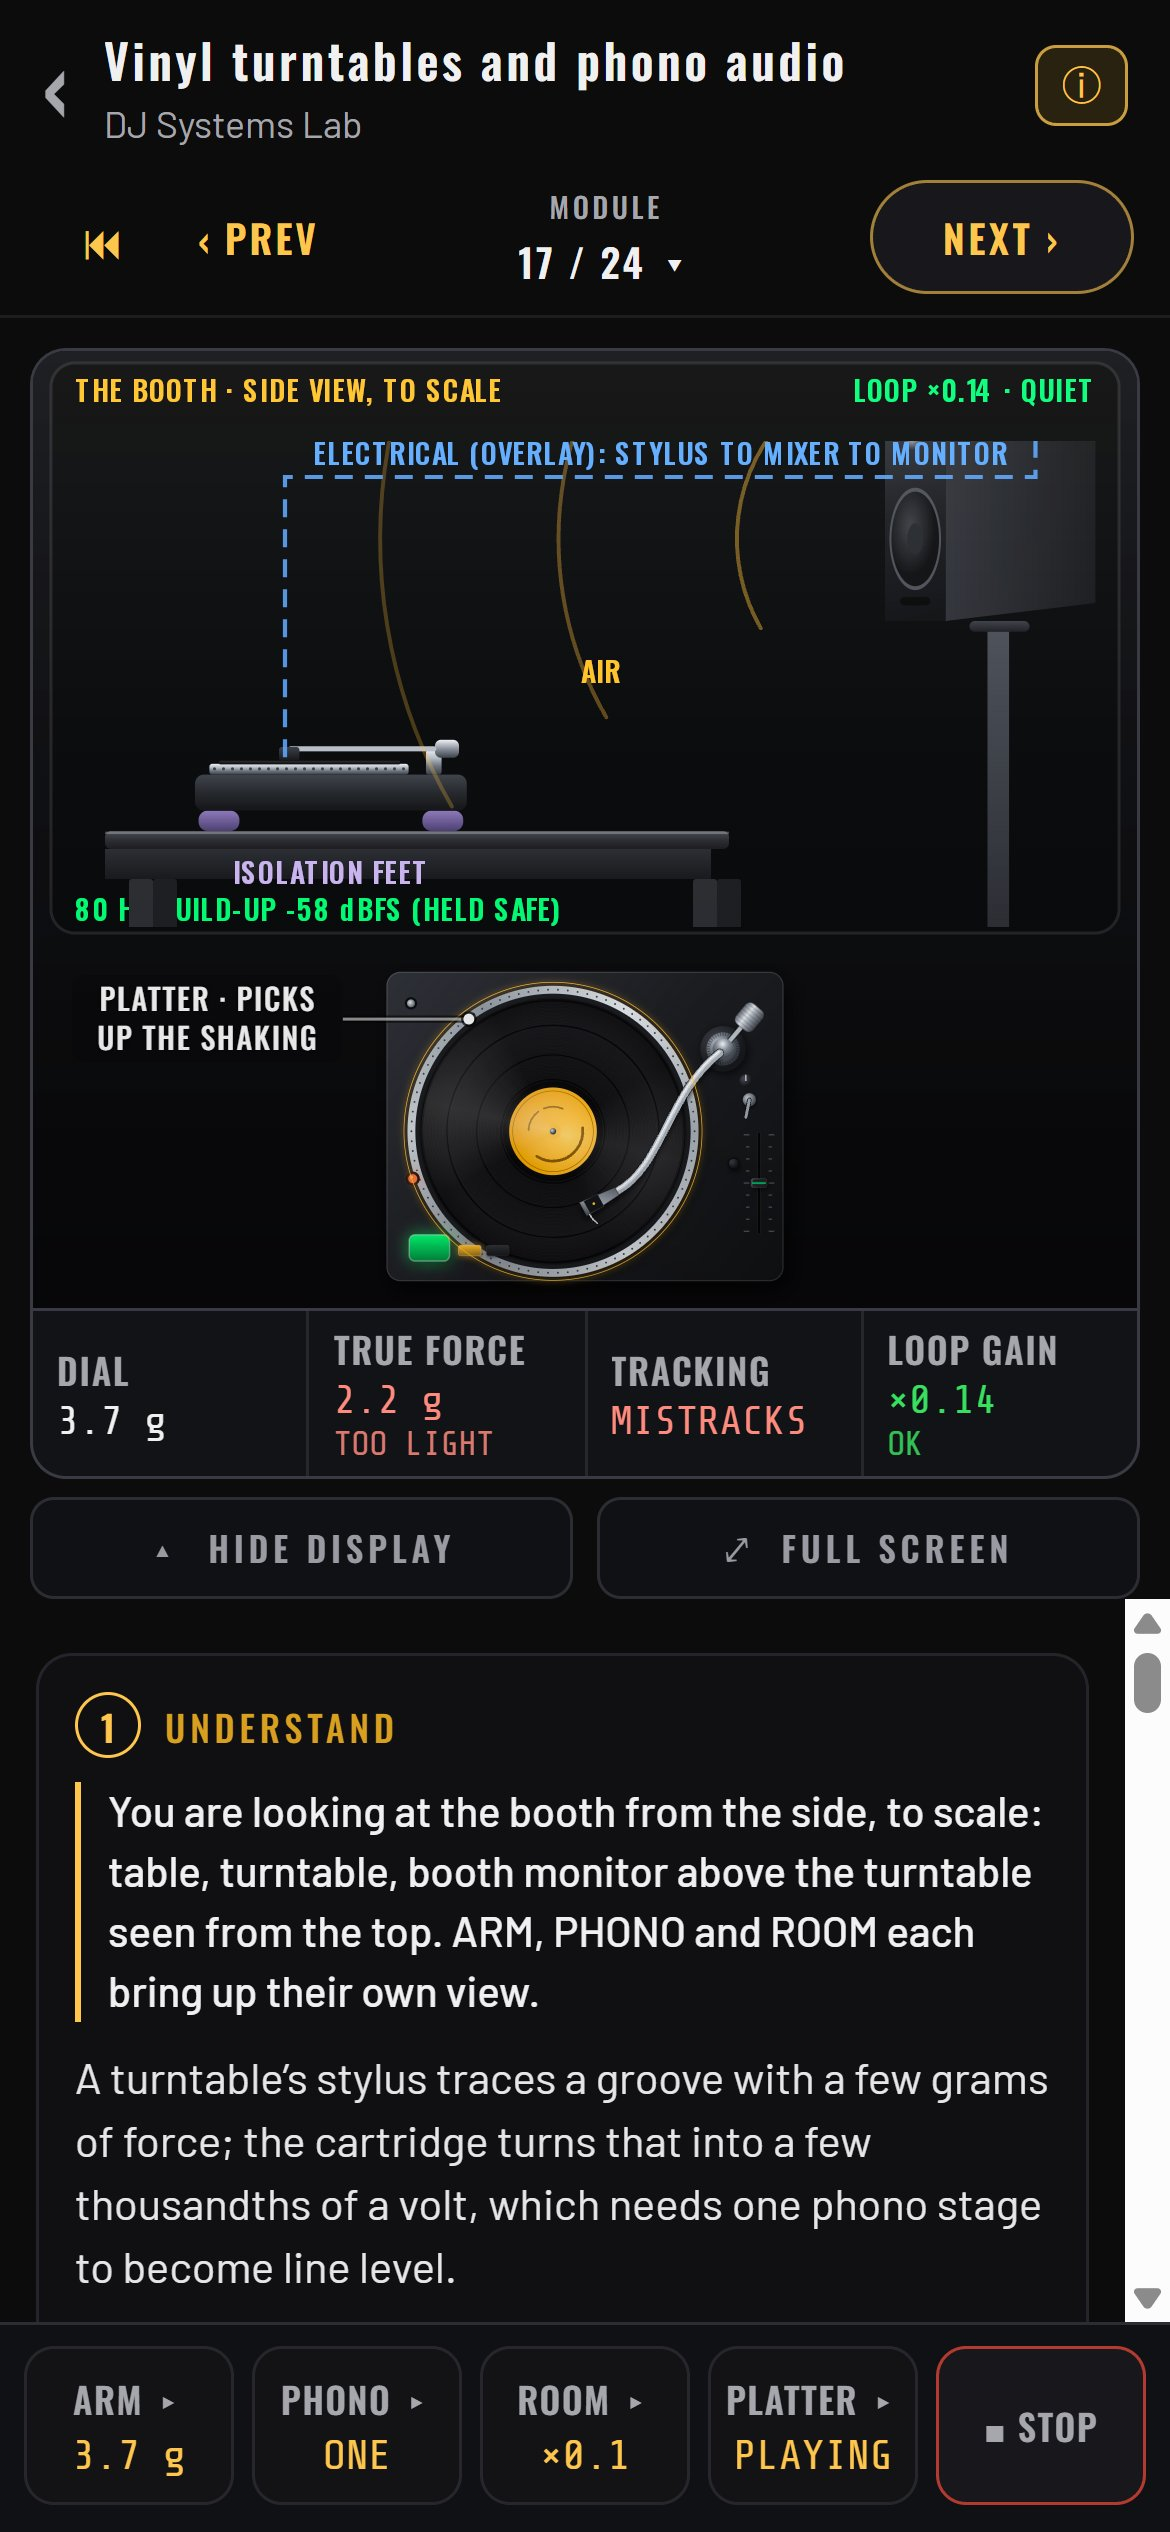
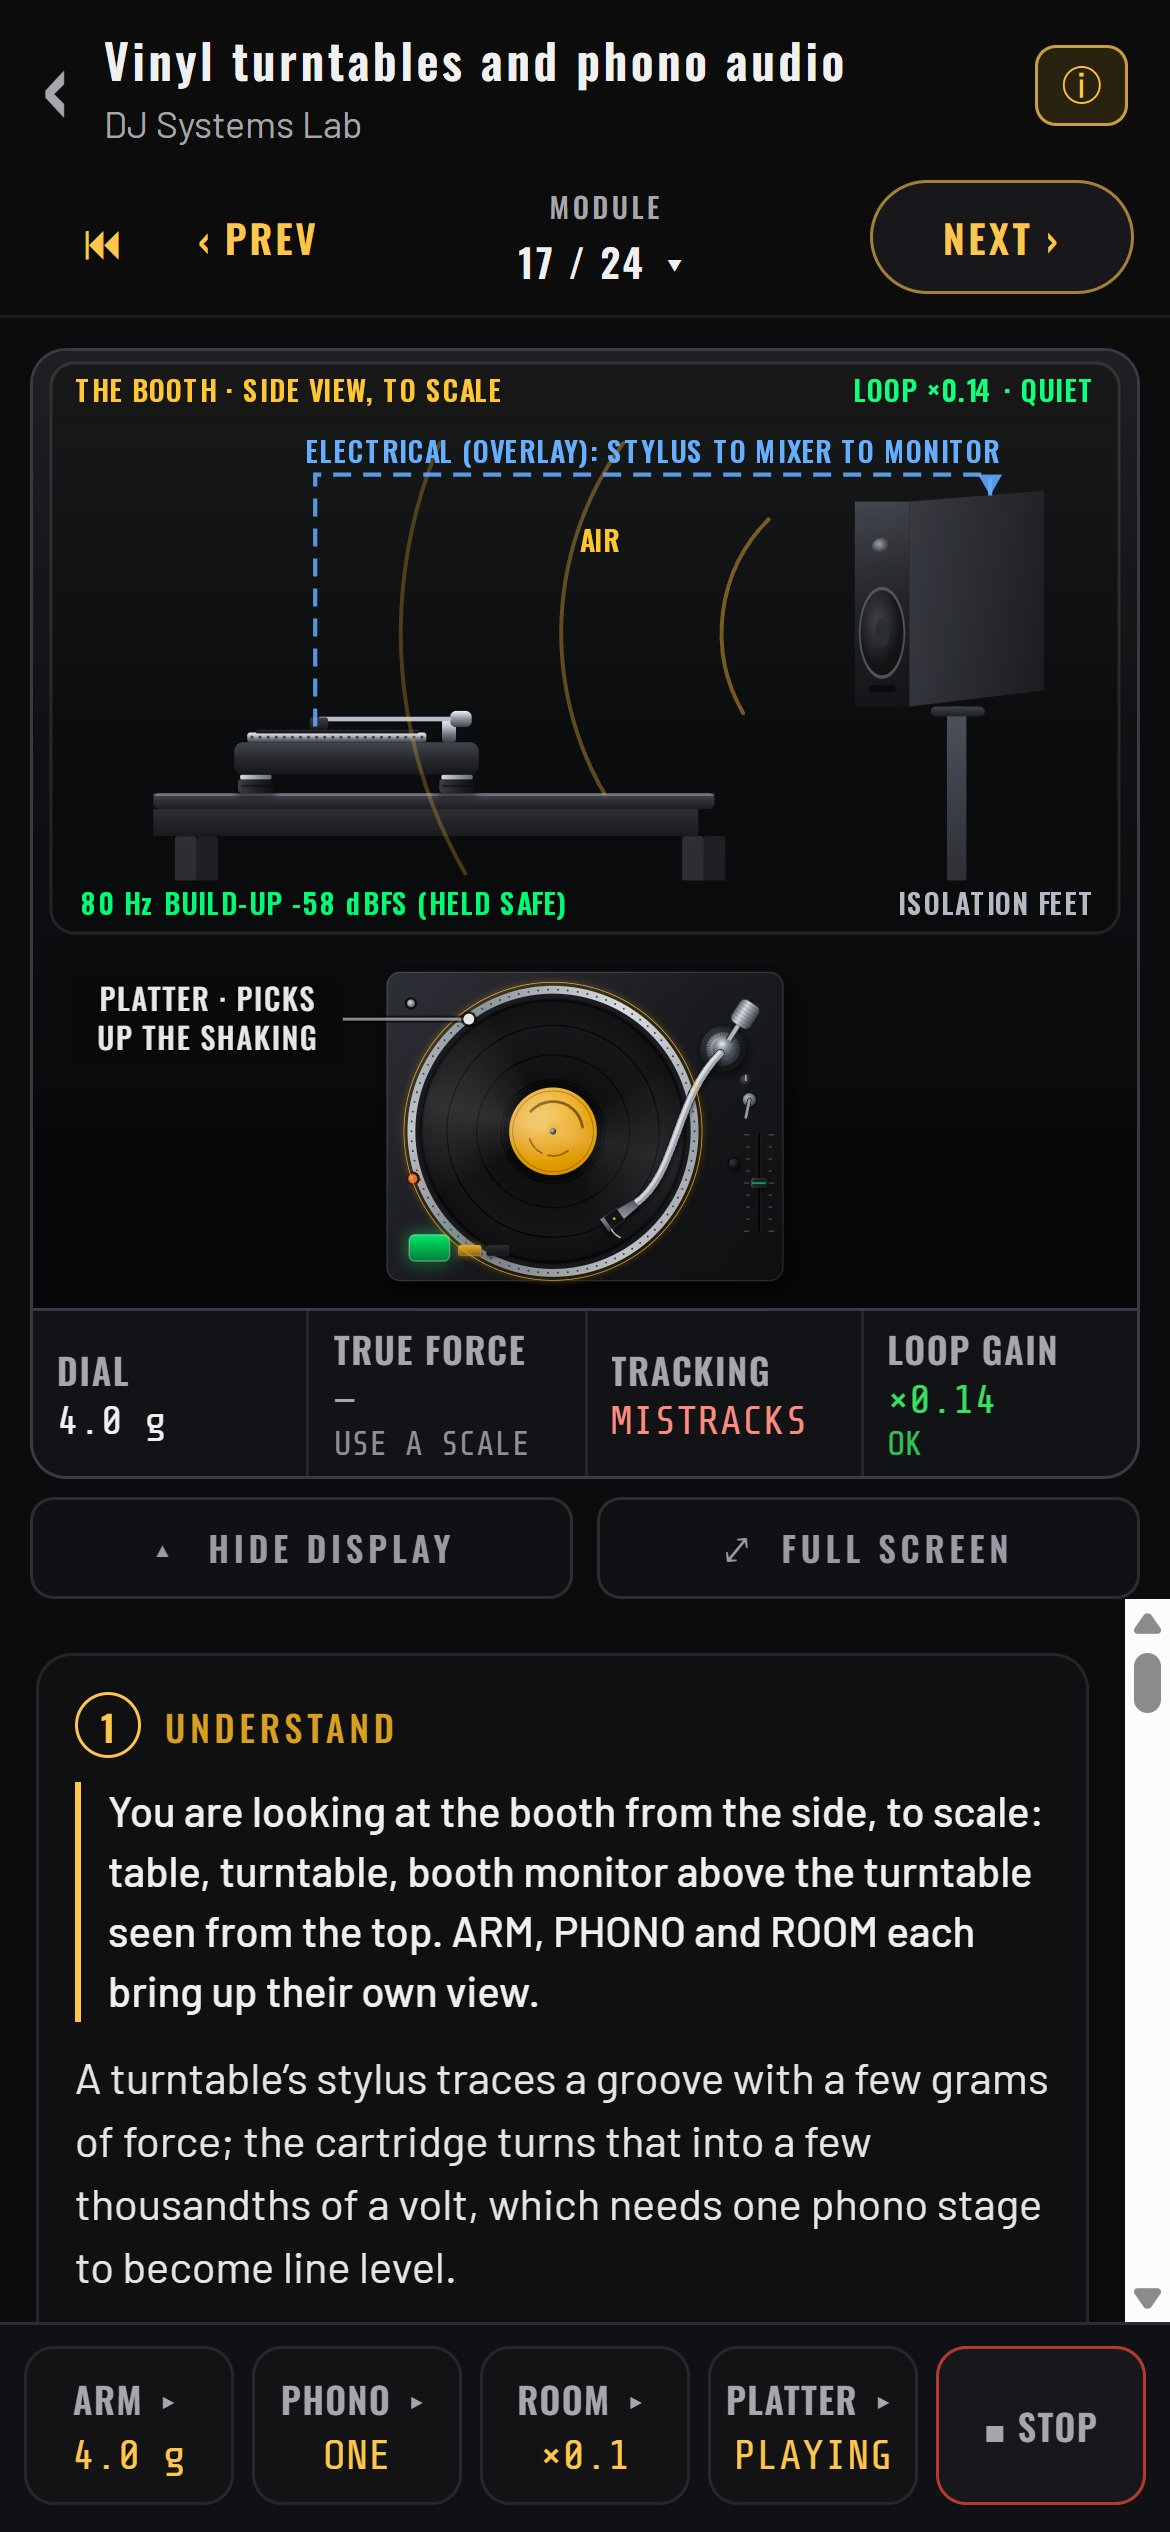
DJ lab screen 17: room view footer band, real isolation pucks, STAGES label
The room view's status words get a footer band of their own; the scene is
clipped above it, so no gear part can draw over them. The isolation feet
are drawn as pucks (a dark elastomer body lit down its side, a machined
metal cap, a contact shadow) and the monitor's pad is neutral; the stand
monitor sits below the electrical overlay's lane. The bezel cell reads
STAGES so it no longer crops. 17f and 17_vinyl_arm re-shot.

diff --git a/src/screens/lab/dj/art/vinylArt.tsx b/src/screens/lab/dj/art/vinylArt.tsx
@@ -534,7 +534,7 @@ export const ROOM_SIDE = {
   tableEnd: 1000,
   tt: { x: 110, w: 453, plinth: 60 },
   near: { x: 640, base: 930 },
-  away: { x: 1260, base: 1250 },
+  away: { x: 1260, base: 1060 },
   mon: { w: 250, h: 380, d: 240 },
   view: { x0: -40, x1: 1560, y0: 760, y1: 1530 },
 } as const;
@@ -543,7 +543,10 @@ export function RoomView({ b, v, gain, howlDb, k = 1 }: { b: Box; v: VinylState;
   const fs = 9.5 * k;
   const R = ROOM_SIDE;
   const head = 30 * k;
-  const s = Math.min((b.w - 12) / (R.view.x1 - R.view.x0), (b.h - head - 6) / (R.view.y1 - R.view.y0));
+  // a footer band of its own for the status words: the scene is clipped
+  // above it, so no gear part can ever draw over a word there
+  const foot = fs + 8;
+  const s = Math.min((b.w - 12) / (R.view.x1 - R.view.x0), (b.h - head - foot - 4) / (R.view.y1 - R.view.y0));
   const ox = b.x + (b.w - (R.view.x1 - R.view.x0) * s) / 2 - R.view.x0 * s;
   const oy = b.y + head + R.view.y1 * s;
   const X = (x: number) => ox + x * s;
@@ -608,7 +611,7 @@ export function RoomView({ b, v, gain, howlDb, k = 1 }: { b: Box; v: VinylState;
   return (
     <Group>
       <Frame b={b} title="THE BOOTH · SIDE VIEW, TO SCALE" k={k} right={`LOOP ×${gain.toFixed(2)} · ${status}`} rightTint={tint} />
-            <Group clip={Skia.XYWHRect(b.x + 2, b.y + head - 4, b.w - 4, b.h - head + 2)}>
+            <Group clip={Skia.XYWHRect(b.x + 2, b.y + head - 4, b.w - 4, b.h - head - foot + 4)}>
         {/* the table: back legs (further, darker), the apron, the top, front legs */}
         {leg(40, true)}
         {leg(R.tableEnd - 20, true)}
@@ -618,11 +621,39 @@ export function RoomView({ b, v, gain, howlDb, k = 1 }: { b: Box; v: VinylState;
         {leg(0, false)}
         {leg(R.tableEnd - 60, false)}
         {/* the turntable in profile: feet, plinth, platter rim (strobe dots), record, arm */}
-        {[R.tt.x + 40, R.tt.x + R.tt.w - 40].map((x) => (
-          <RoundedRect key={x} x={X(x - (v.feet ? 34 : 22))} y={Y(R.tableTop + feetH)} width={(v.feet ? 68 : 44) * s} height={feetH * s} r={feetH * s * 0.45}>
-            <LinearGradient start={vec(0, Y(R.tableTop + feetH))} end={vec(0, Y(R.tableTop))} colors={v.feet ? ['#8a7ab8', '#4a3f6e'] : ['#3a3c42', '#121317']} />
-          </RoundedRect>
-        ))}
+        {[R.tt.x + 40, R.tt.x + R.tt.w - 40].map((x) => {
+          const fw = (v.feet ? 66 : 44) * s;
+          const fx = X(x) - fw / 2;
+          const top = Y(R.tableTop + feetH);
+          const bot = Y(R.tableTop);
+          const fh = bot - top;
+          return (
+            <Group key={x}>
+              {/* the contact shadow on the table top */}
+              <RoundedRect x={fx - 1} y={bot - 1.2} width={fw + 2} height={2.4} r={1.2} color="rgba(0,0,0,0.65)">
+                <BlurMask blur={1.2} style="normal" />
+              </RoundedRect>
+              {v.feet ? (
+                <Group>
+                  {/* an isolation puck: a dark elastomer body, lit down its side,
+                      under a machined metal cap */}
+                  <RoundedRect x={fx} y={top + fh * 0.22} width={fw} height={fh * 0.78} r={Math.min(3, fh * 0.2)}>
+                    <LinearGradient start={vec(fx, 0)} end={vec(fx + fw, 0)} colors={['#3a3c42', '#26272c', '#141518', '#0b0c0e']} positions={[0, 0.35, 0.75, 1]} />
+                  </RoundedRect>
+                  <RoundedRect x={fx + fw * 0.06} y={top} width={fw * 0.88} height={fh * 0.26} r={Math.min(2, fh * 0.1)}>
+                    <LinearGradient start={vec(fx, 0)} end={vec(fx + fw, 0)} colors={['#e1e5ea', '#9aa0a8', '#5c626b']} />
+                  </RoundedRect>
+                  <Line p1={vec(fx + 1, top + fh * 0.62)} p2={vec(fx + fw - 1, top + fh * 0.62)} color="rgba(0,0,0,0.45)" strokeWidth={0.8} />
+                </Group>
+              ) : (
+                // the turntable's own foot: a domed rubber foot
+                <RoundedRect x={fx} y={top} width={fw} height={fh} r={fh * 0.45}>
+                  <LinearGradient start={vec(fx, 0)} end={vec(fx + fw, 0)} colors={['#3a3c42', '#1e1f23', '#0b0c0e']} />
+                </RoundedRect>
+              )}
+            </Group>
+          );
+        })}
         <Solid x={X(R.tt.x)} y={Y(ttTop)} w={R.tt.w * s} h={R.tt.plinth * s} c={['#3e4148', '#24262b', '#121316']} r={3} />
         <Solid x={X(R.tt.x + 24)} y={Y(platterTop)} w={332 * s} h={18 * s} c={METAL} r={1} />
         {Array.from({ length: 22 }, (_, i) => (
@@ -636,7 +667,7 @@ export function RoomView({ b, v, gain, howlDb, k = 1 }: { b: Box; v: VinylState;
         <Solid x={X(R.tt.x + 140)} y={Y(ttTop + 46)} w={34 * s} h={(46 - (recTop - ttTop)) * s} c={['#3a3d44', '#121316']} r={1} />
         {/* the monitor: a pad on the table, or a pole stand of its own */}
         {v.monitorNear ? (
-          <Solid x={X(mon.x - 10)} y={Y(mon.y)} w={(depth + R.mon.w + 20) * s} h={30 * s} c={['#4a3f6e', '#2a2440']} r={2} />
+          <Solid x={X(mon.x - 10)} y={Y(mon.y)} w={(depth + R.mon.w + 20) * s} h={30 * s} c={['#3a3c42', '#1e1f23']} r={2} />
         ) : (
           <Group>
             <Solid x={X(mon.x + depth + 70)} y={Y(mon.y)} w={36 * s} h={(mon.y - R.view.y0 + 40) * s} c={['#4a4e56', '#2a2c31']} r={1} />
@@ -676,13 +707,9 @@ export function RoomView({ b, v, gain, howlDb, k = 1 }: { b: Box; v: VinylState;
       </Group>
       <SceneText x={(X(R.tt.x + 150) + X(mon.x + depth + R.mon.w * 0.6)) / 2} y={Y(R.view.y1 - 40) - 4} size={fs} text="ELECTRICAL (OVERLAY): STYLUS TO MIXER TO MONITOR" color={INK.blue} face="label" align="center" minPt={9.5} />
       <SceneText x={woof.x - Math.max(30, woof.x - X(R.tt.x + R.tt.w * 0.55)) * 0.55} y={Y(recTop + 330)} size={fs} text="AIR" color={INK.amber} face="label" align="center" minPt={9.5} />
-      {howlDb > -60 ? (
-        <Group>
-          <RoundedRect x={b.x + 6} y={b.y + b.h - fs - 7} width={fs * 21} height={fs + 6} r={3} color="rgba(8,8,10,0.88)" />
-          <SceneText x={b.x + 10} y={b.y + b.h - 6} size={fs} text={`80 Hz BUILD-UP ${howlDb.toFixed(0)} dBFS (HELD SAFE)`} color={tint} face="label" minPt={9.5} />
-        </Group>
-      ) : null}
-      {v.feet ? <SceneText x={X(R.tt.x + R.tt.w / 2)} y={Y(R.tableTop - 40) + fs} size={fs} text="ISOLATION FEET" color="#c9b8f0" face="label" align="center" minPt={9.5} /> : null}
+      {/* the footer band: status words only, clear of every gear part */}
+      {howlDb > -60 ? <SceneText x={b.x + 10} y={b.y + b.h - 6} size={fs} text={`80 Hz BUILD-UP ${howlDb.toFixed(0)} dBFS (HELD SAFE)`} color={tint} face="label" minPt={9.5} /> : null}
+      <SceneText x={b.x + b.w - 8} y={b.y + b.h - 6} size={fs} text={v.feet ? 'ISOLATION FEET' : 'ITS OWN FEET'} color={INK.print} face="label" align="right" minPt={9.5} />
     </Group>
   );
 }

diff --git a/src/screens/lab/dj/pages/p17Vinyl.tsx b/src/screens/lab/dj/pages/p17Vinyl.tsx
@@ -230,7 +230,7 @@ function PageVinyl({ ctx }: { ctx: PageCtx }) {
           { k: 'TRACKING', v: trackWord, tint: trackWord === 'CLEAN' ? colors.green : trackWord === 'ARM UP' ? colors.textSub : '#ff8a7e' },
           view === 'ROOM'
             ? { k: 'LOOP GAIN', v: `×${G.toFixed(2)}`, sub: G >= 1 ? 'HOWL' : G >= 0.6 ? 'BOOMY' : 'OK', tint: G >= 1 ? '#ff5a48' : G >= 0.6 ? colors.amber : colors.green }
-            : { k: 'PHONO STAGES', v: count < 0 ? '—' : String(count), sub: !v.gnd ? 'HUM: NO GND' : count === 1 ? 'RIGHT' : 'WRONG', tint: count === 1 && v.gnd ? colors.green : '#ff8a7e' },
+            : { k: 'STAGES', v: count < 0 ? '—' : String(count), sub: !v.gnd ? 'HUM: NO GND' : count === 1 ? 'RIGHT' : 'WRONG', tint: count === 1 && v.gnd ? colors.green : '#ff8a7e' },
         ],
         params: [
           { kind: 'group', id: 'arm', label: 'ARM', valueLabel: `${dialReads(v).toFixed(1)} g`, valueA11y: `dial ${dialReads(v).toFixed(1)} grams`, render: () => <ArmTray onView={() => setView('ARM')} /> },
